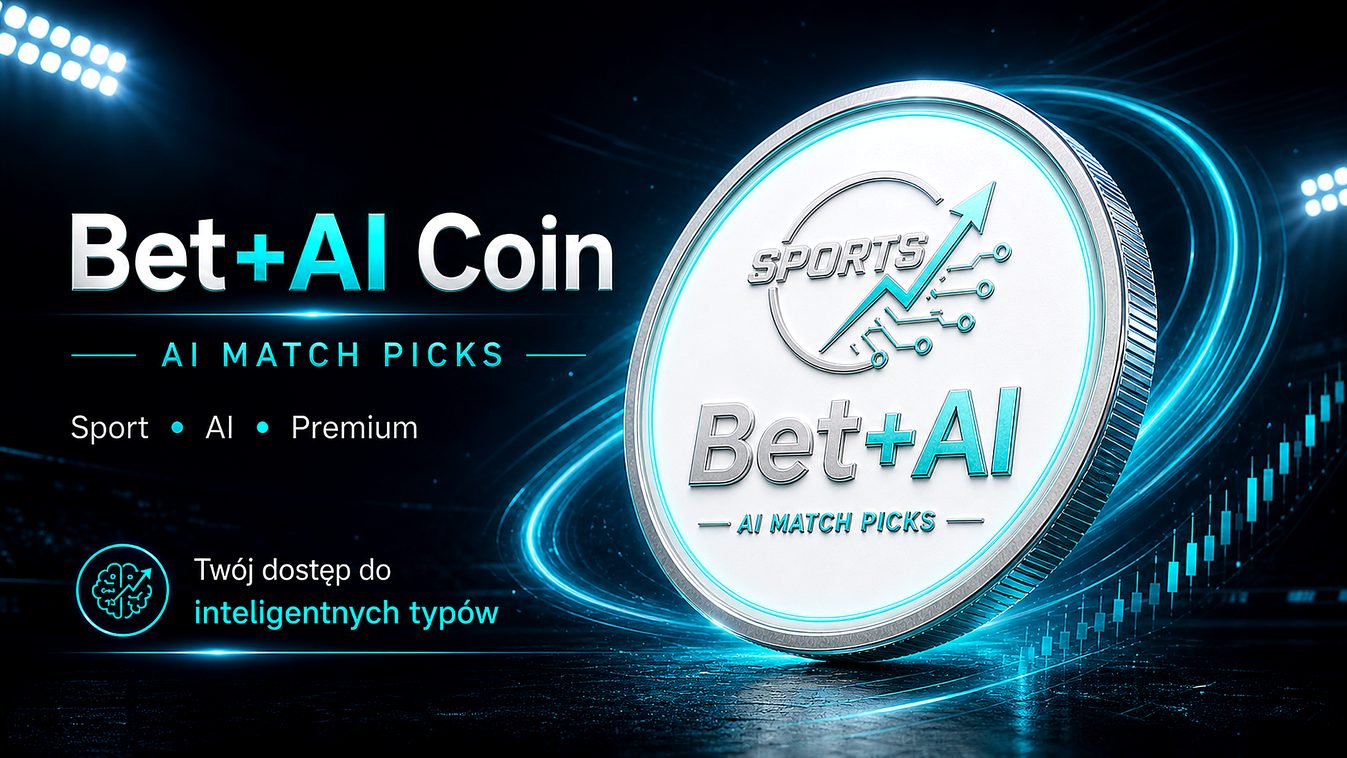
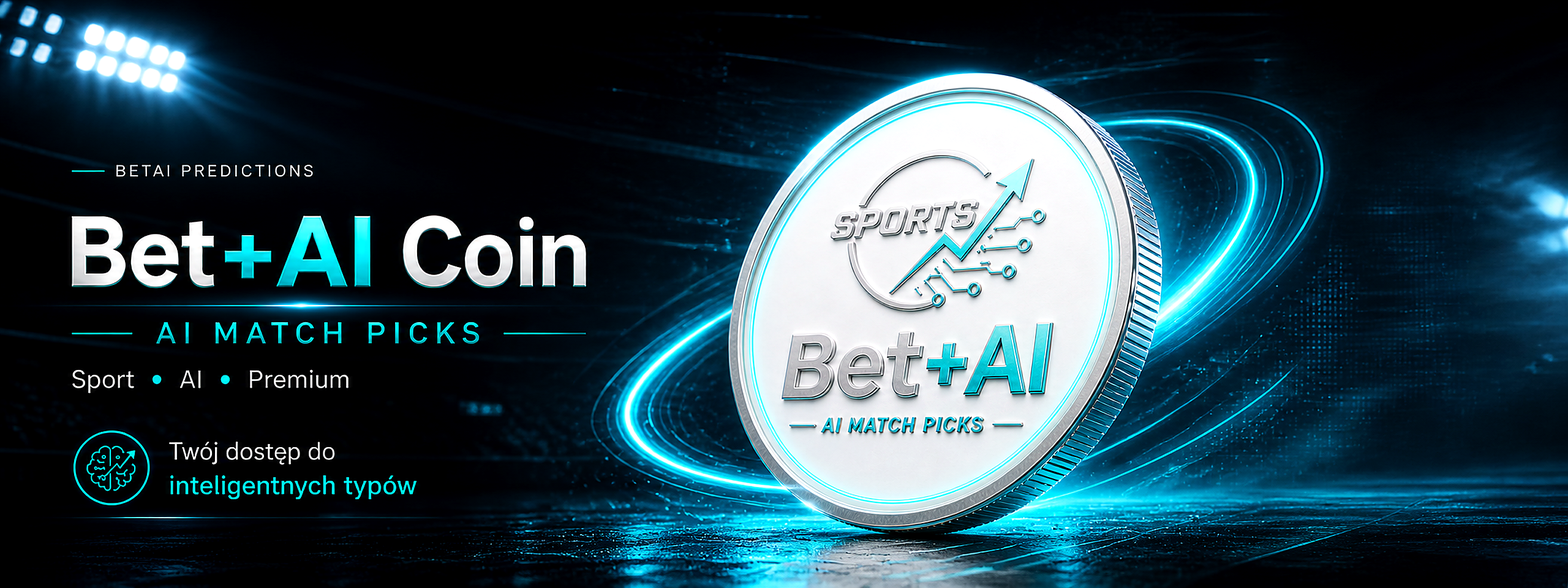
trt

diff --git a/src/styles.css b/src/styles.css
@@ -9598,3 +9598,83 @@ html,body,#root{
 @media (min-width:1000px) and (max-width:1180px){
   .betai-animated-hero.betai-hero-coin-active > .betai-hero-stats{ width:196px !important; }
 }
+
+
+/* WERSJA 421 — final polish for coin hero */
+@keyframes betaiCoinFinalFloat {
+  0%   { transform: translate3d(0,0,0) scale(1.008); }
+  20%  { transform: translate3d(-3px,-1px,0) scale(1.010); }
+  50%  { transform: translate3d(0,2px,0) scale(1.013); }
+  80%  { transform: translate3d(3px,-1px,0) scale(1.010); }
+  100% { transform: translate3d(0,0,0) scale(1.008); }
+}
+@keyframes betaiCoinFinalGlow {
+  0%,100% { filter: brightness(1.03) contrast(1.04) saturate(1.05) drop-shadow(0 10px 26px rgba(25,225,240,.14)); }
+  50%     { filter: brightness(1.06) contrast(1.05) saturate(1.07) drop-shadow(0 16px 36px rgba(25,225,240,.22)); }
+}
+@media (min-width:1000px){
+  .betai-animated-hero.betai-hero-coin-active{
+    min-height:334px !important;
+    padding:18px !important;
+    overflow:hidden !important;
+    background:#06131d !important;
+  }
+  .betai-animated-hero.betai-hero-coin-active > .betai-hero-full-coin-bg{
+    display:block !important;
+    position:absolute !important;
+    left:18px !important;
+    top:18px !important;
+    width:calc(100% - 36px) !important;
+    height:calc(100% - 36px) !important;
+    object-fit:fill !important;
+    object-position:center center !important;
+    border-radius:26px !important;
+    z-index:1 !important;
+    opacity:1 !important;
+    transform:translate3d(0,0,0) scale(1.008) !important;
+    transform-origin:center center !important;
+    animation:betaiCoinFinalFloat 13s ease-in-out infinite, betaiCoinFinalGlow 9s ease-in-out infinite !important;
+    box-shadow:0 16px 46px rgba(0,0,0,.22), inset 0 1px 0 rgba(255,255,255,.05) !important;
+    will-change:transform, filter !important;
+    backface-visibility:hidden !important;
+  }
+  .betai-animated-hero.betai-hero-coin-active::after{
+    content:"";
+    position:absolute;
+    inset:18px;
+    border-radius:26px;
+    pointer-events:none;
+    z-index:2;
+    background:linear-gradient(110deg, rgba(255,255,255,0) 0%, rgba(255,255,255,.035) 26%, rgba(255,255,255,0) 46%, rgba(255,255,255,.02) 70%, rgba(255,255,255,0) 100%);
+    mix-blend-mode:screen;
+    opacity:.55;
+  }
+  .betai-animated-hero.betai-hero-coin-active > .betai-hero-copy{
+    opacity:0 !important;
+    pointer-events:none !important;
+  }
+  .betai-animated-hero.betai-hero-coin-active .betai-hero-bg,
+  .betai-animated-hero.betai-hero-coin-active .betai-hero-orb,
+  .betai-animated-hero.betai-hero-coin-active .betai-hero-player,
+  .betai-animated-hero.betai-hero-coin-active .betai-hero-panel-coin{
+    display:none !important;
+  }
+  .betai-animated-hero.betai-hero-coin-active > .betai-hero-stats{
+    position:absolute !important;
+    right:18px !important;
+    top:18px !important;
+    bottom:18px !important;
+    width:214px !important;
+    z-index:8 !important;
+  }
+  .betai-animated-hero.betai-hero-coin-active > .betai-hero-stats div{
+    background:linear-gradient(180deg,rgba(7,17,26,.18),rgba(6,14,22,.24)) !important;
+    border:1px solid rgba(255,255,255,.07) !important;
+    box-shadow:0 8px 20px rgba(0,0,0,.08) !important;
+    backdrop-filter:blur(15px) saturate(1.18) !important;
+    -webkit-backdrop-filter:blur(15px) saturate(1.18) !important;
+  }
+}
+@media (min-width:1000px) and (max-width:1180px){
+  .betai-animated-hero.betai-hero-coin-active > .betai-hero-stats{ width:196px !important; }
+}

diff --git a/dist/assets/index-Ck5lrAOd.css b/dist/assets/index-Ck5lrAOd.css
@@ -716,3 +716,83 @@
 @media (min-width:1000px) and (max-width:1180px){
   .betai-animated-hero.betai-hero-coin-active > .betai-hero-stats{ width:196px !important; }
 }
+
+
+/* WERSJA 421 — final polish for coin hero */
+@keyframes betaiCoinFinalFloat {
+  0%   { transform: translate3d(0,0,0) scale(1.008); }
+  20%  { transform: translate3d(-3px,-1px,0) scale(1.010); }
+  50%  { transform: translate3d(0,2px,0) scale(1.013); }
+  80%  { transform: translate3d(3px,-1px,0) scale(1.010); }
+  100% { transform: translate3d(0,0,0) scale(1.008); }
+}
+@keyframes betaiCoinFinalGlow {
+  0%,100% { filter: brightness(1.03) contrast(1.04) saturate(1.05) drop-shadow(0 10px 26px rgba(25,225,240,.14)); }
+  50%     { filter: brightness(1.06) contrast(1.05) saturate(1.07) drop-shadow(0 16px 36px rgba(25,225,240,.22)); }
+}
+@media (min-width:1000px){
+  .betai-animated-hero.betai-hero-coin-active{
+    min-height:334px !important;
+    padding:18px !important;
+    overflow:hidden !important;
+    background:#06131d !important;
+  }
+  .betai-animated-hero.betai-hero-coin-active > .betai-hero-full-coin-bg{
+    display:block !important;
+    position:absolute !important;
+    left:18px !important;
+    top:18px !important;
+    width:calc(100% - 36px) !important;
+    height:calc(100% - 36px) !important;
+    object-fit:fill !important;
+    object-position:center center !important;
+    border-radius:26px !important;
+    z-index:1 !important;
+    opacity:1 !important;
+    transform:translate3d(0,0,0) scale(1.008) !important;
+    transform-origin:center center !important;
+    animation:betaiCoinFinalFloat 13s ease-in-out infinite, betaiCoinFinalGlow 9s ease-in-out infinite !important;
+    box-shadow:0 16px 46px rgba(0,0,0,.22), inset 0 1px 0 rgba(255,255,255,.05) !important;
+    will-change:transform, filter !important;
+    backface-visibility:hidden !important;
+  }
+  .betai-animated-hero.betai-hero-coin-active::after{
+    content:"";
+    position:absolute;
+    inset:18px;
+    border-radius:26px;
+    pointer-events:none;
+    z-index:2;
+    background:linear-gradient(110deg, rgba(255,255,255,0) 0%, rgba(255,255,255,.035) 26%, rgba(255,255,255,0) 46%, rgba(255,255,255,.02) 70%, rgba(255,255,255,0) 100%);
+    mix-blend-mode:screen;
+    opacity:.55;
+  }
+  .betai-animated-hero.betai-hero-coin-active > .betai-hero-copy{
+    opacity:0 !important;
+    pointer-events:none !important;
+  }
+  .betai-animated-hero.betai-hero-coin-active .betai-hero-bg,
+  .betai-animated-hero.betai-hero-coin-active .betai-hero-orb,
+  .betai-animated-hero.betai-hero-coin-active .betai-hero-player,
+  .betai-animated-hero.betai-hero-coin-active .betai-hero-panel-coin{
+    display:none !important;
+  }
+  .betai-animated-hero.betai-hero-coin-active > .betai-hero-stats{
+    position:absolute !important;
+    right:18px !important;
+    top:18px !important;
+    bottom:18px !important;
+    width:214px !important;
+    z-index:8 !important;
+  }
+  .betai-animated-hero.betai-hero-coin-active > .betai-hero-stats div{
+    background:linear-gradient(180deg,rgba(7,17,26,.18),rgba(6,14,22,.24)) !important;
+    border:1px solid rgba(255,255,255,.07) !important;
+    box-shadow:0 8px 20px rgba(0,0,0,.08) !important;
+    backdrop-filter:blur(15px) saturate(1.18) !important;
+    -webkit-backdrop-filter:blur(15px) saturate(1.18) !important;
+  }
+}
+@media (min-width:1000px) and (max-width:1180px){
+  .betai-animated-hero.betai-hero-coin-active > .betai-hero-stats{ width:196px !important; }
+}
